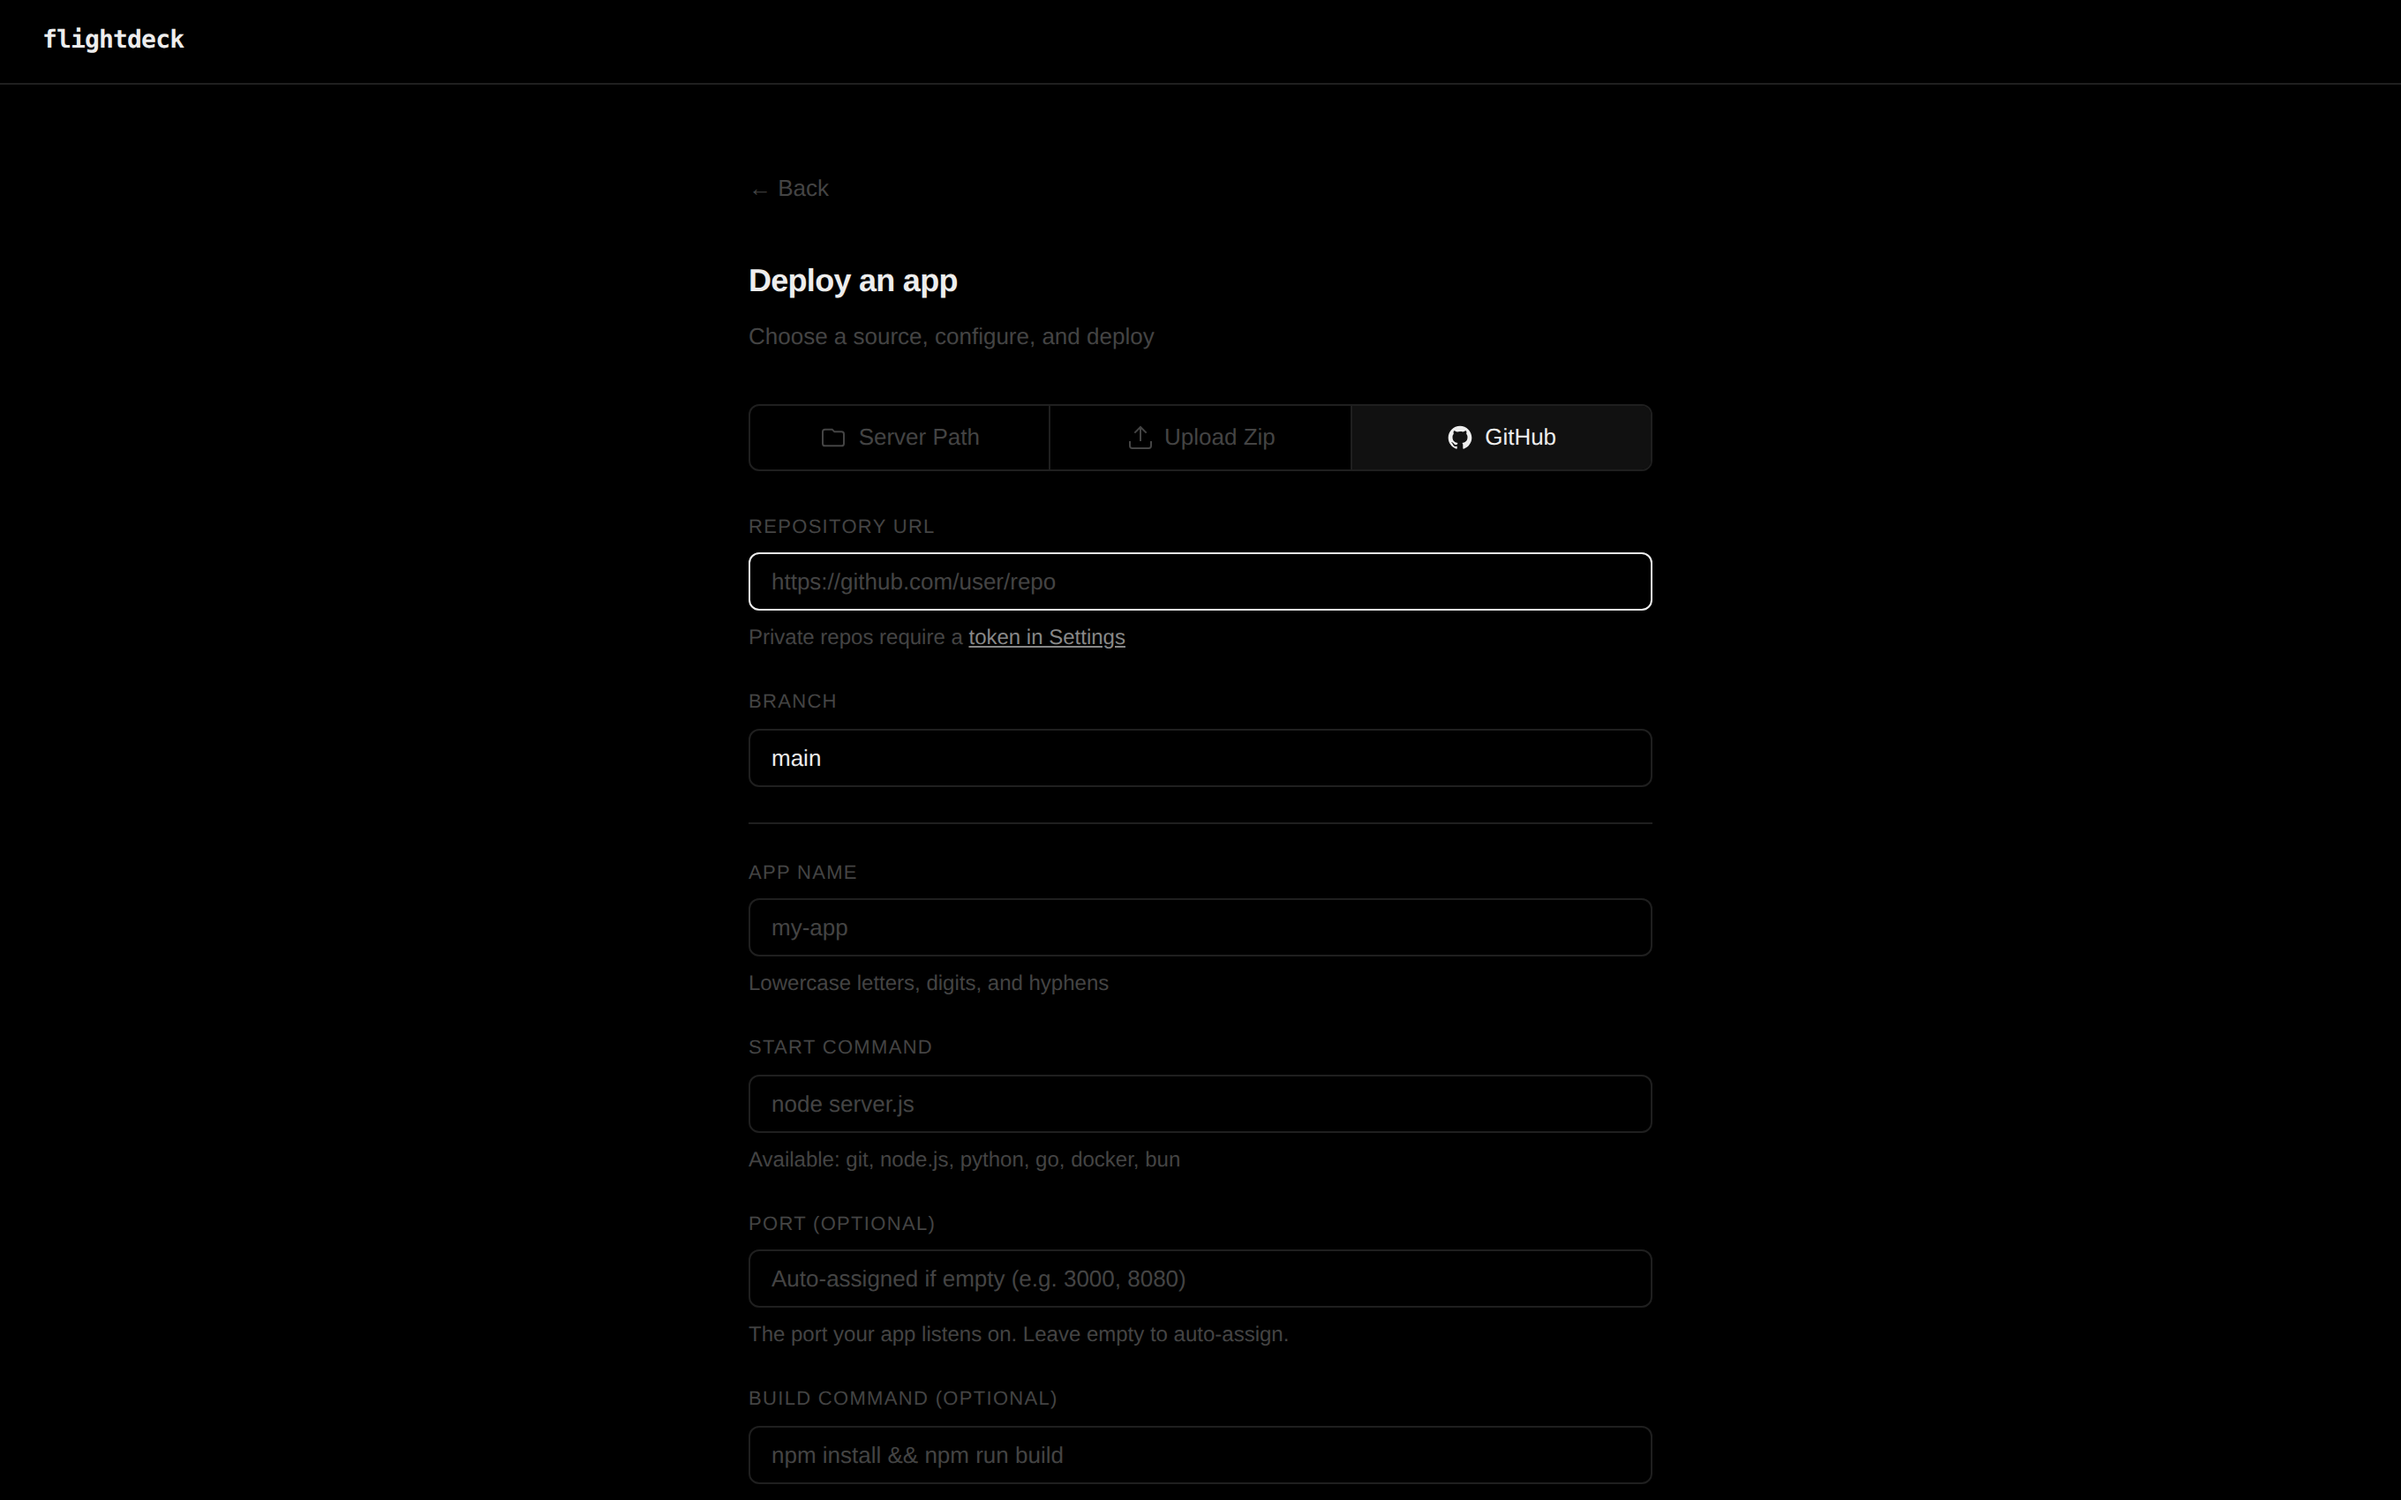
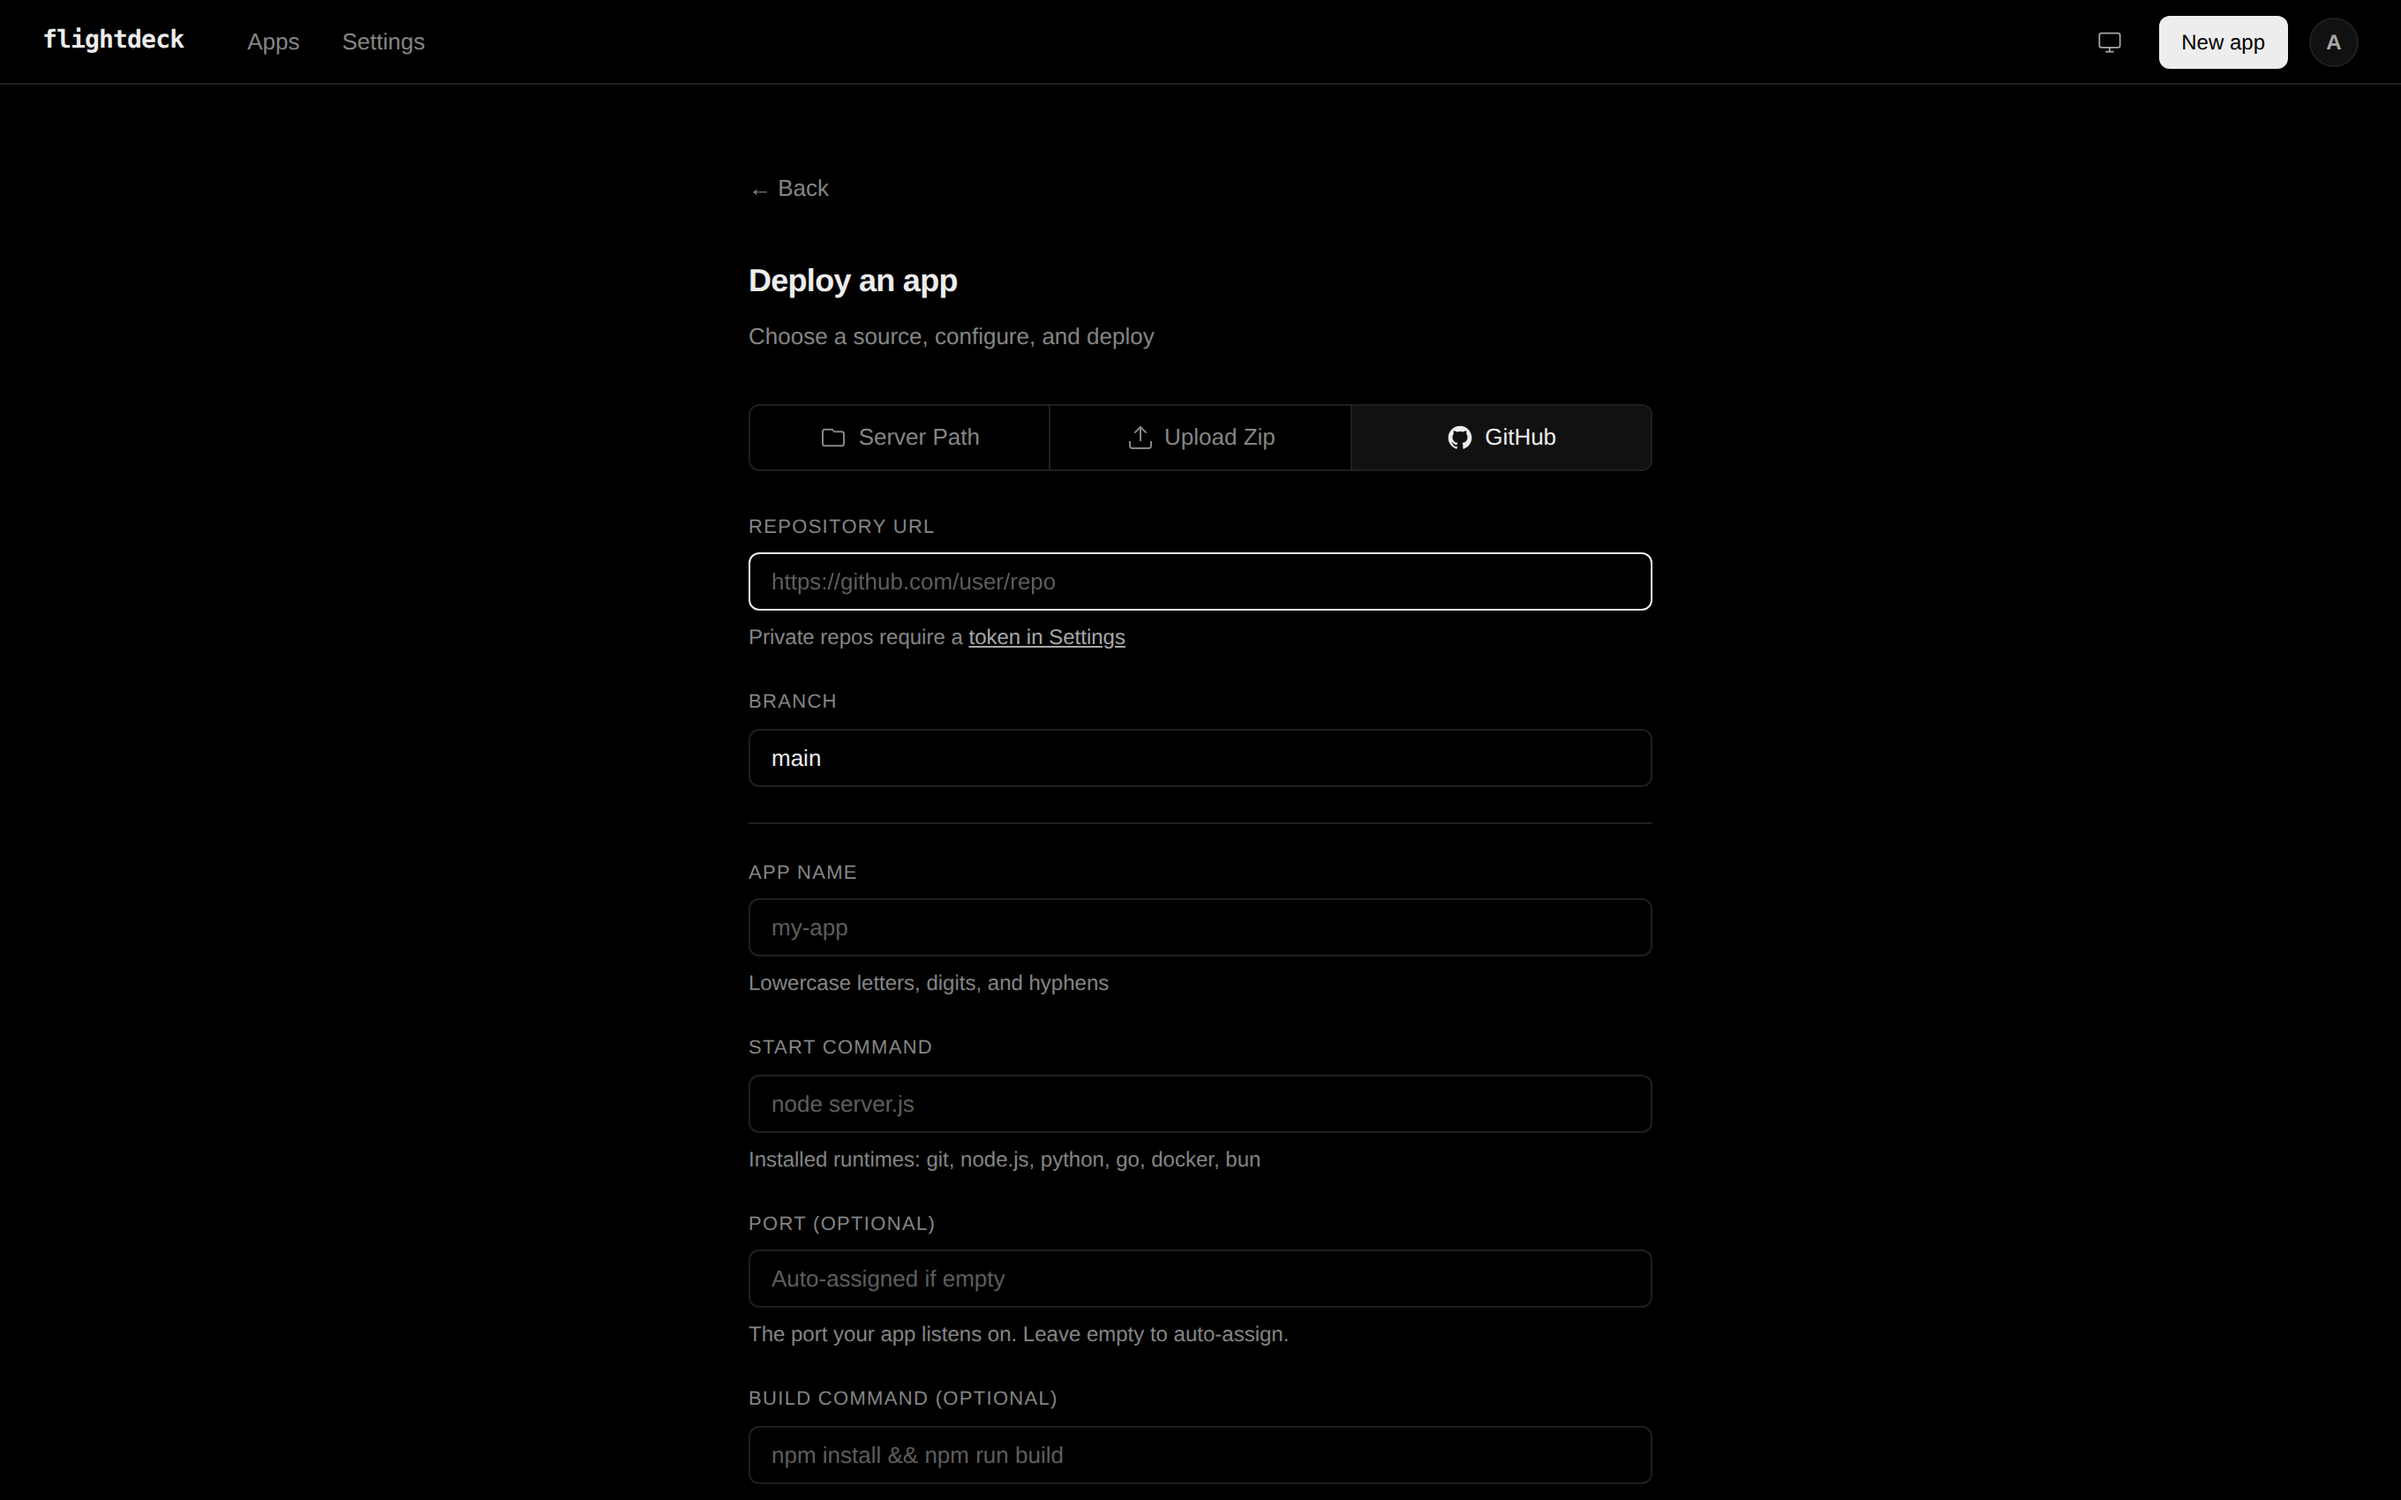
Refresh README, API docs, screenshots, and demo GIF
New captures show the reworked dashboard, tabbed app page, and the
live deploy log. Feature list picks up live deploy logs, rollback,
log tooling, notifications, and the theme toggle. API docs add the
rollback and deployment log endpoints.

diff --git a/README.md b/README.md
@@ -15,7 +15,7 @@ curl -sSL https://raw.githubusercontent.com/sahithvibudhi/flightdeck/main/script
 
 Then open `http://your-server-ip:3000` and create your admin account in the browser. That's the whole install.
 
-![flightdeck demo: login, live deploy, push-to-deploy webhook](docs/screenshots/demo.gif)
+![flightdeck demo: dashboard, live deploy with staged log, log filtering, rollback history, theme toggle](docs/screenshots/demo.gif)
 
 ## Why flightdeck?
 
@@ -50,10 +50,13 @@ If you want 280+ one-click services, teams, and multi-server orchestration, use 
 - **Deploy apps** from GitHub, a zip upload, or a directory already on the server
 - **Push-to-deploy**: every app gets an HMAC-signed webhook URL; push to GitHub and it pulls, rebuilds, restarts
 - **Zero-downtime deploys**: set a health check path and deploys start the new process, wait for it to pass, switch traffic, then stop the old one
+- **Live deploy logs**: watch pull, build, health check, and traffic switch stream stage by stage while a deploy runs; every deployment keeps its full log
+- **One-click rollback** to any previous successful deployment
 - **Crash recovery**: processes that die are restarted with exponential backoff; persistent failures are marked crashed with the reason in the logs
 - **Automatic SSL** via Caddy reverse proxy: add a domain and certificates just work
-- **Live logs** streamed to the dashboard over SSE, not polled snapshots
-- **Deployment history** showing what triggered each deploy and whether it succeeded
+- **Live logs** streamed to the dashboard over SSE, with filtering, follow/pause, and download
+- **Deployment history** showing what triggered each deploy, the commit, duration, and which one is serving right now
+- **Notifications** to Discord, Telegram, or any webhook on deploy success, failure, and crashes
 - **Environment variables** per app, managed from the UI
 - **Build commands** like `npm install && npm run build` before start
 - **Process control**: start, stop, restart from the dashboard; stop reaches the whole process group
@@ -67,15 +70,19 @@ The dashboard, with every app's status, resource usage, and URL:
 
 ![dashboard](docs/screenshots/dashboard-dark.png)
 
-An app's page: live logs, push-to-deploy webhook, deployment history, health checks:
+An app's page, with tabs for logs, deployments, and configuration:
 
-![app detail with push-to-deploy and live logs](docs/screenshots/app-detail-dark.png)
+![app detail with tabs and live metrics](docs/screenshots/app-detail-dark.png)
+
+Deploys stream their build output live, stage by stage:
+
+![live deploy log with stages](docs/screenshots/deploy-log-dark.png)
 
 Deploying is one form:
 
 ![deploy form](docs/screenshots/deploy-dark.png)
 
-There's a light theme too. It follows your system preference:
+There's a light theme too: follow the OS or pick one from the navbar:
 
 ![dashboard in light mode](docs/screenshots/dashboard-light.png)
 

diff --git a/docs/API.md b/docs/API.md
@@ -26,6 +26,9 @@ POST   /api/apps/:id/restart        Restart app
 POST   /api/apps/:id/pull           Git pull latest changes
 POST   /api/apps/:id/deploy         Pull + build + restart, recorded in history
 GET    /api/apps/:id/deployments    Deployment history
+POST   /api/apps/:id/deployments/:depID/rollback     Roll back to that deployment's commit
+GET    /api/apps/:id/deployments/:depID/logs         Captured deploy log {lines, running}
+GET    /api/apps/:id/deployments/:depID/logs/stream  Live deploy log (SSE; ends with "done" event)
 GET    /api/apps/:id/logs?lines=100 Log snapshot
 GET    /api/apps/:id/logs/stream    Live log tail (SSE; pass ?token=)
 ```
